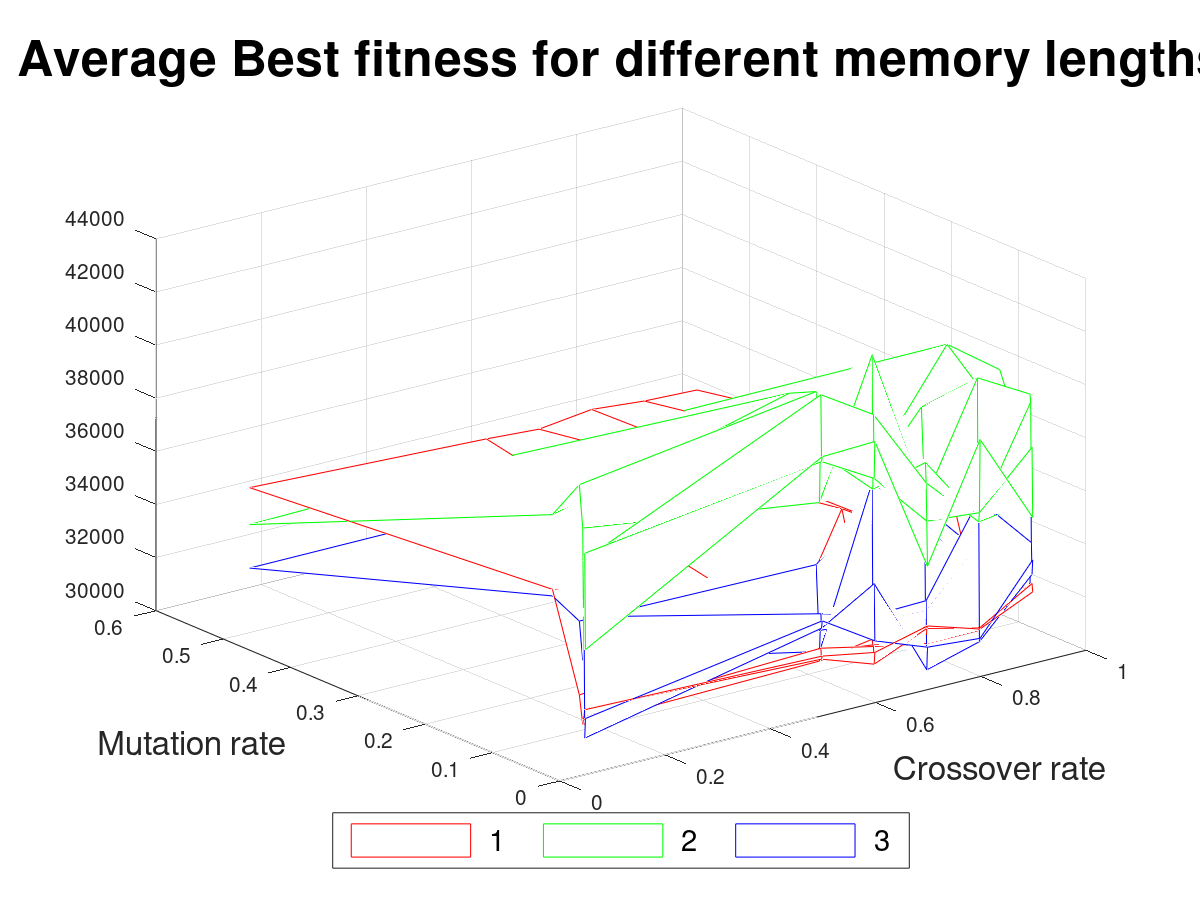
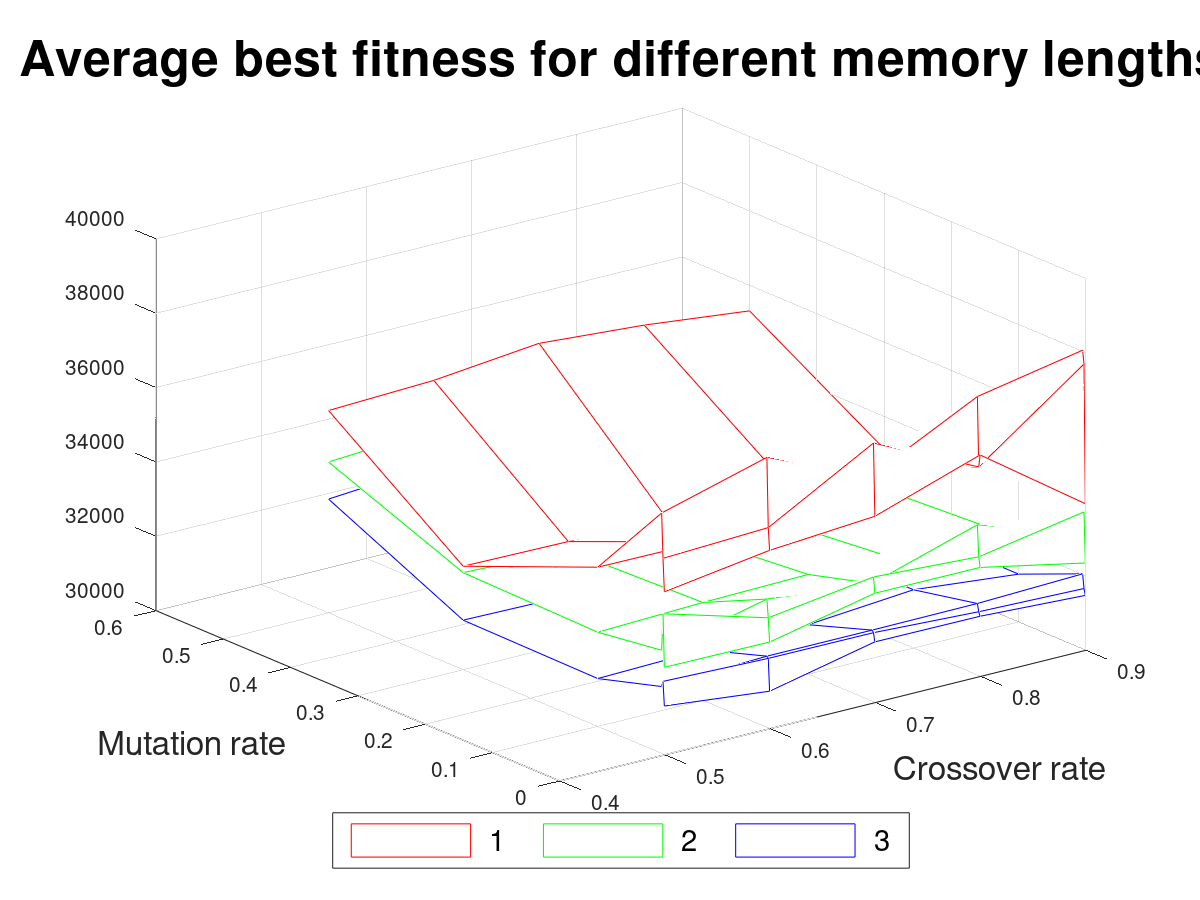
average best fitness plot

diff --git a/experiments.code/average_best_fitness.m b/experiments.code/average_best_fitness.m
@@ -4,8 +4,8 @@ nr_runs = 10;
 offset = 122;
 interval = 103;
 
-crossover_rates = [0.05, 0.50, 0.60, 0.70, 0.80, 0.90];
-mutation_rates = [0.001, 0.002, 0.003, 0.004, 0.005, 0.010, 0.050, 0.500];
+crossover_rates = [0.5, 0.6, 0.7, 0.8, 0.9];
+mutation_rates = [0.001, 0.003, 0.005, 0.1, 0.3, 0.5];
 memory_lengths = [1, 2, 3];
 number_of_games = 64;
 
@@ -24,7 +24,7 @@ for k=1:length(memory_lengths)
       % Author: MathWorks Support Team 
       % Date Published: 12 October 2016
       % Date Accessed: 18 March 2020
-      filename = strcat('..\experiment-2crossover_rate-', num2str(crossover_rate, 2), 'mutation_rate-', num2str(mutation_rate, 3), 'memory_length-', num2str(memory_length), 'number_of_games-', num2str(number_of_games),  '_summary.txt');
+      filename = strcat('..\crossover_rate-', num2str(crossover_rate), 'mutation_rate-', num2str(mutation_rate), 'memory_length-', num2str(memory_length), 'number_of_games-', num2str(number_of_games),  '_summary.txt');
       total_best = 0;
       for l=0:(nr_runs-1)
         linenum = offset+l*interval;
